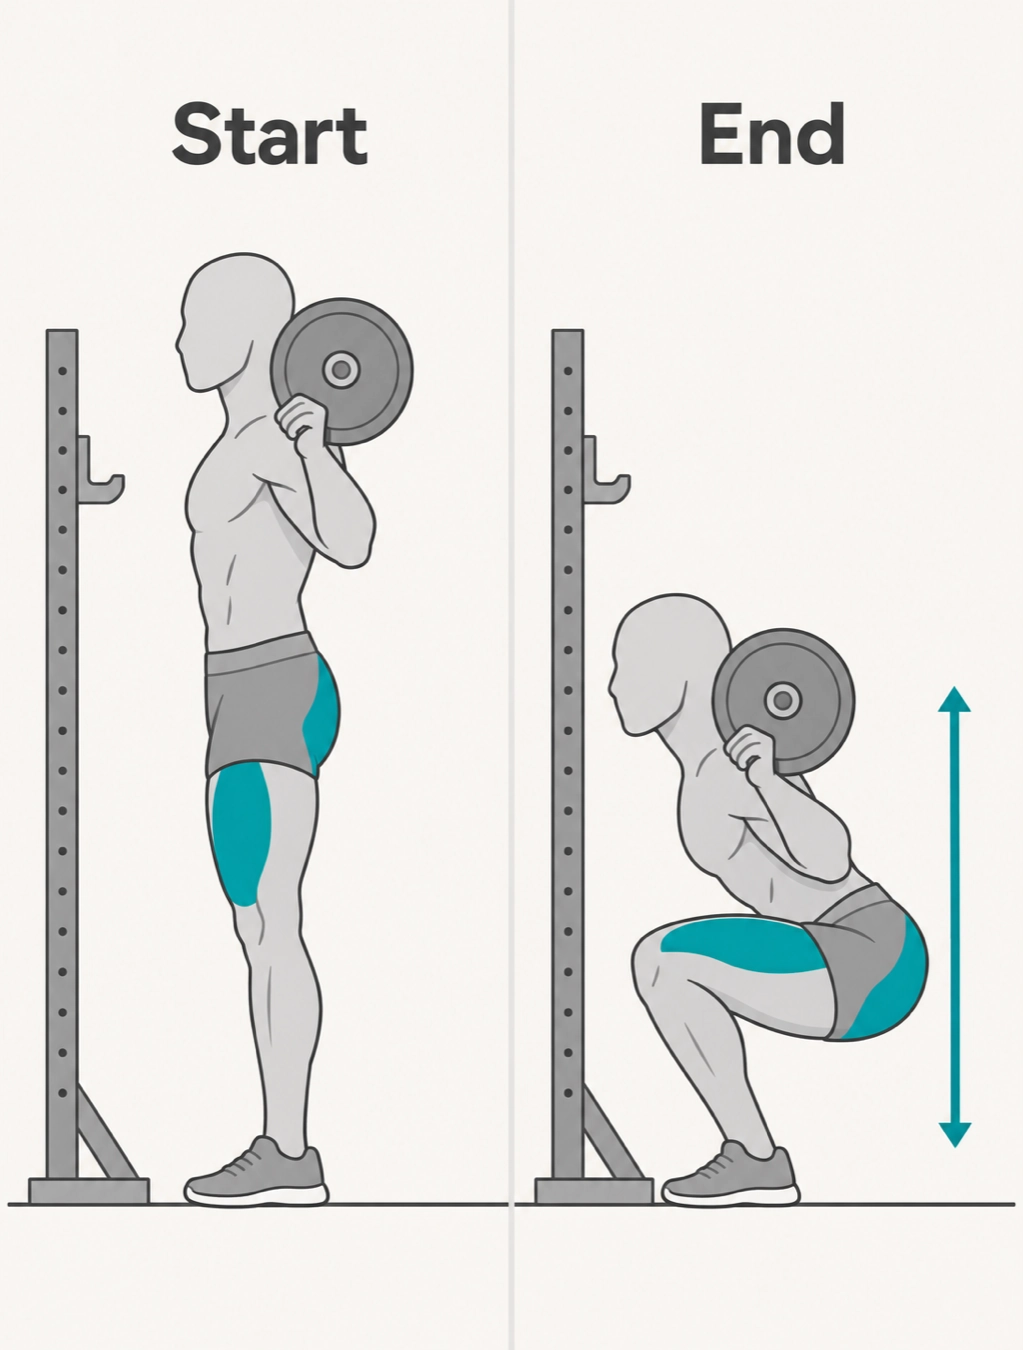
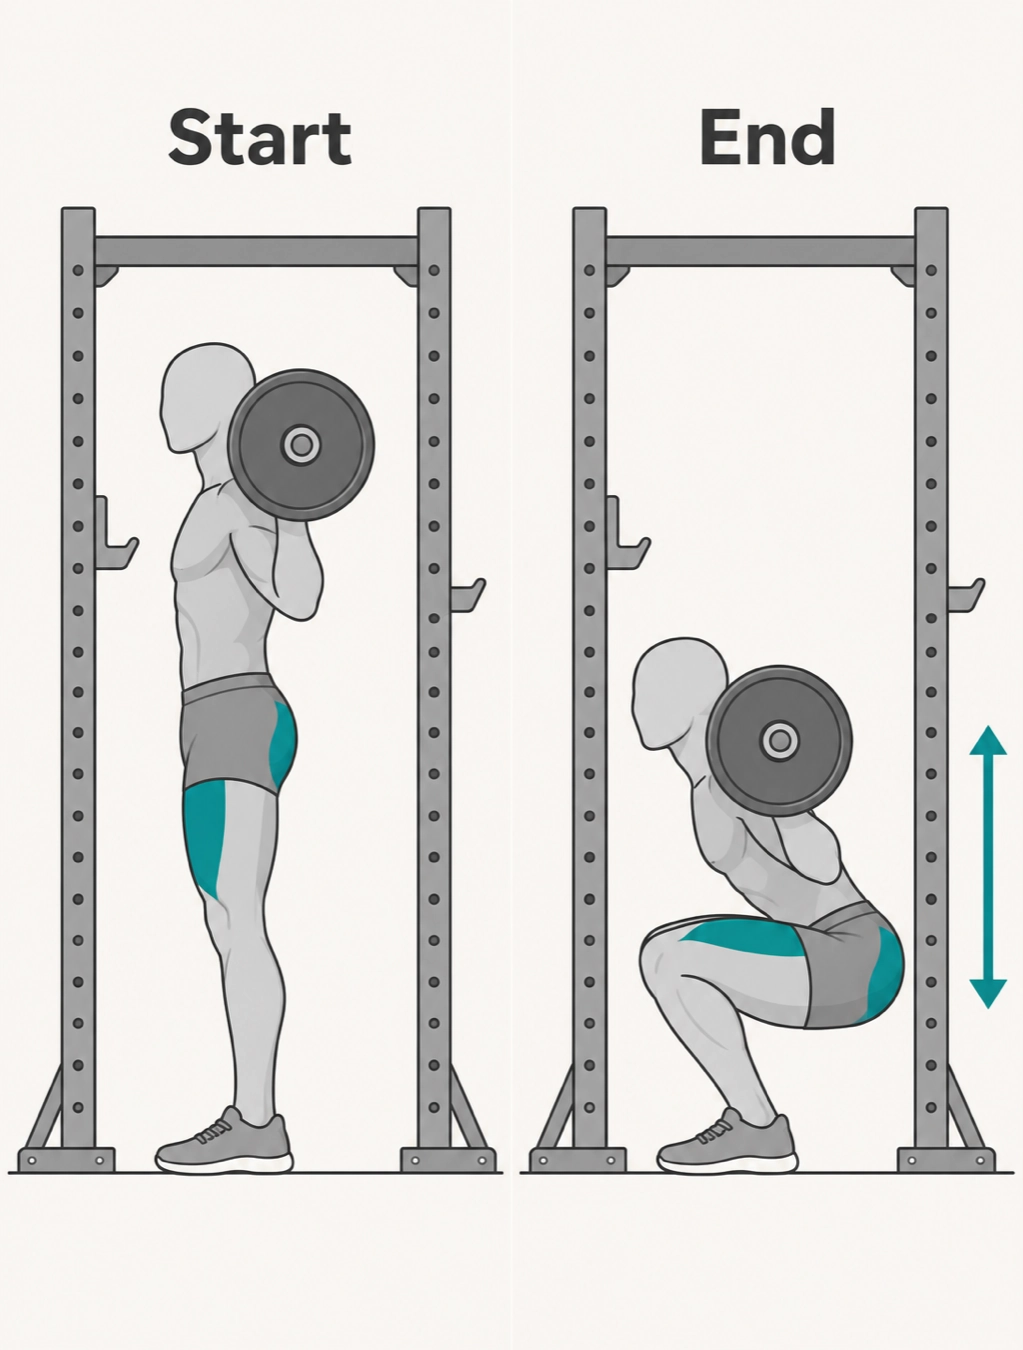
feat(training): dip and squat form images redrawn (#727)

Changed region(s): [[0.0, 0.1556, 1.0, 0.9022], [0.1515, 0.0622, 0.3636, 0.1244], [0.697, 0.0622, 0.8485, 0.1244]]

diff --git a/data/exercises/media/review-notes.md b/data/exercises/media/review-notes.md
@@ -23,3 +23,5 @@ Orkestratör ön bakışı (küçük boyutta, toplu görünüm): genel stil tuta
 - **Yeniden üret:** `dip` (paralel barlar çizilmemiş, figür havada) · `squat` (bar konumu: başın arkasında mı belirsiz; front squat'a benziyor).
 - **Bakılacak:** çerçeve ve "Start/End" yazı boyutu karelere göre değişiyor (stil tutarlılığı).
 - Hepsi `image_review: pending`; Levent kontrol listesiyle tek tek onaylar (`by: levent, checklist: pass`), onaylanan sunucudan gelir.
+
+## Yeniden üretim (25 Kas): dip (paralel barlar açıkça tarif edildi) ve squat (bar boynun arkasında, baş plakanın önünde) — orkestratör bakışı: ikisi de düzeldi; onay Levent'te.
